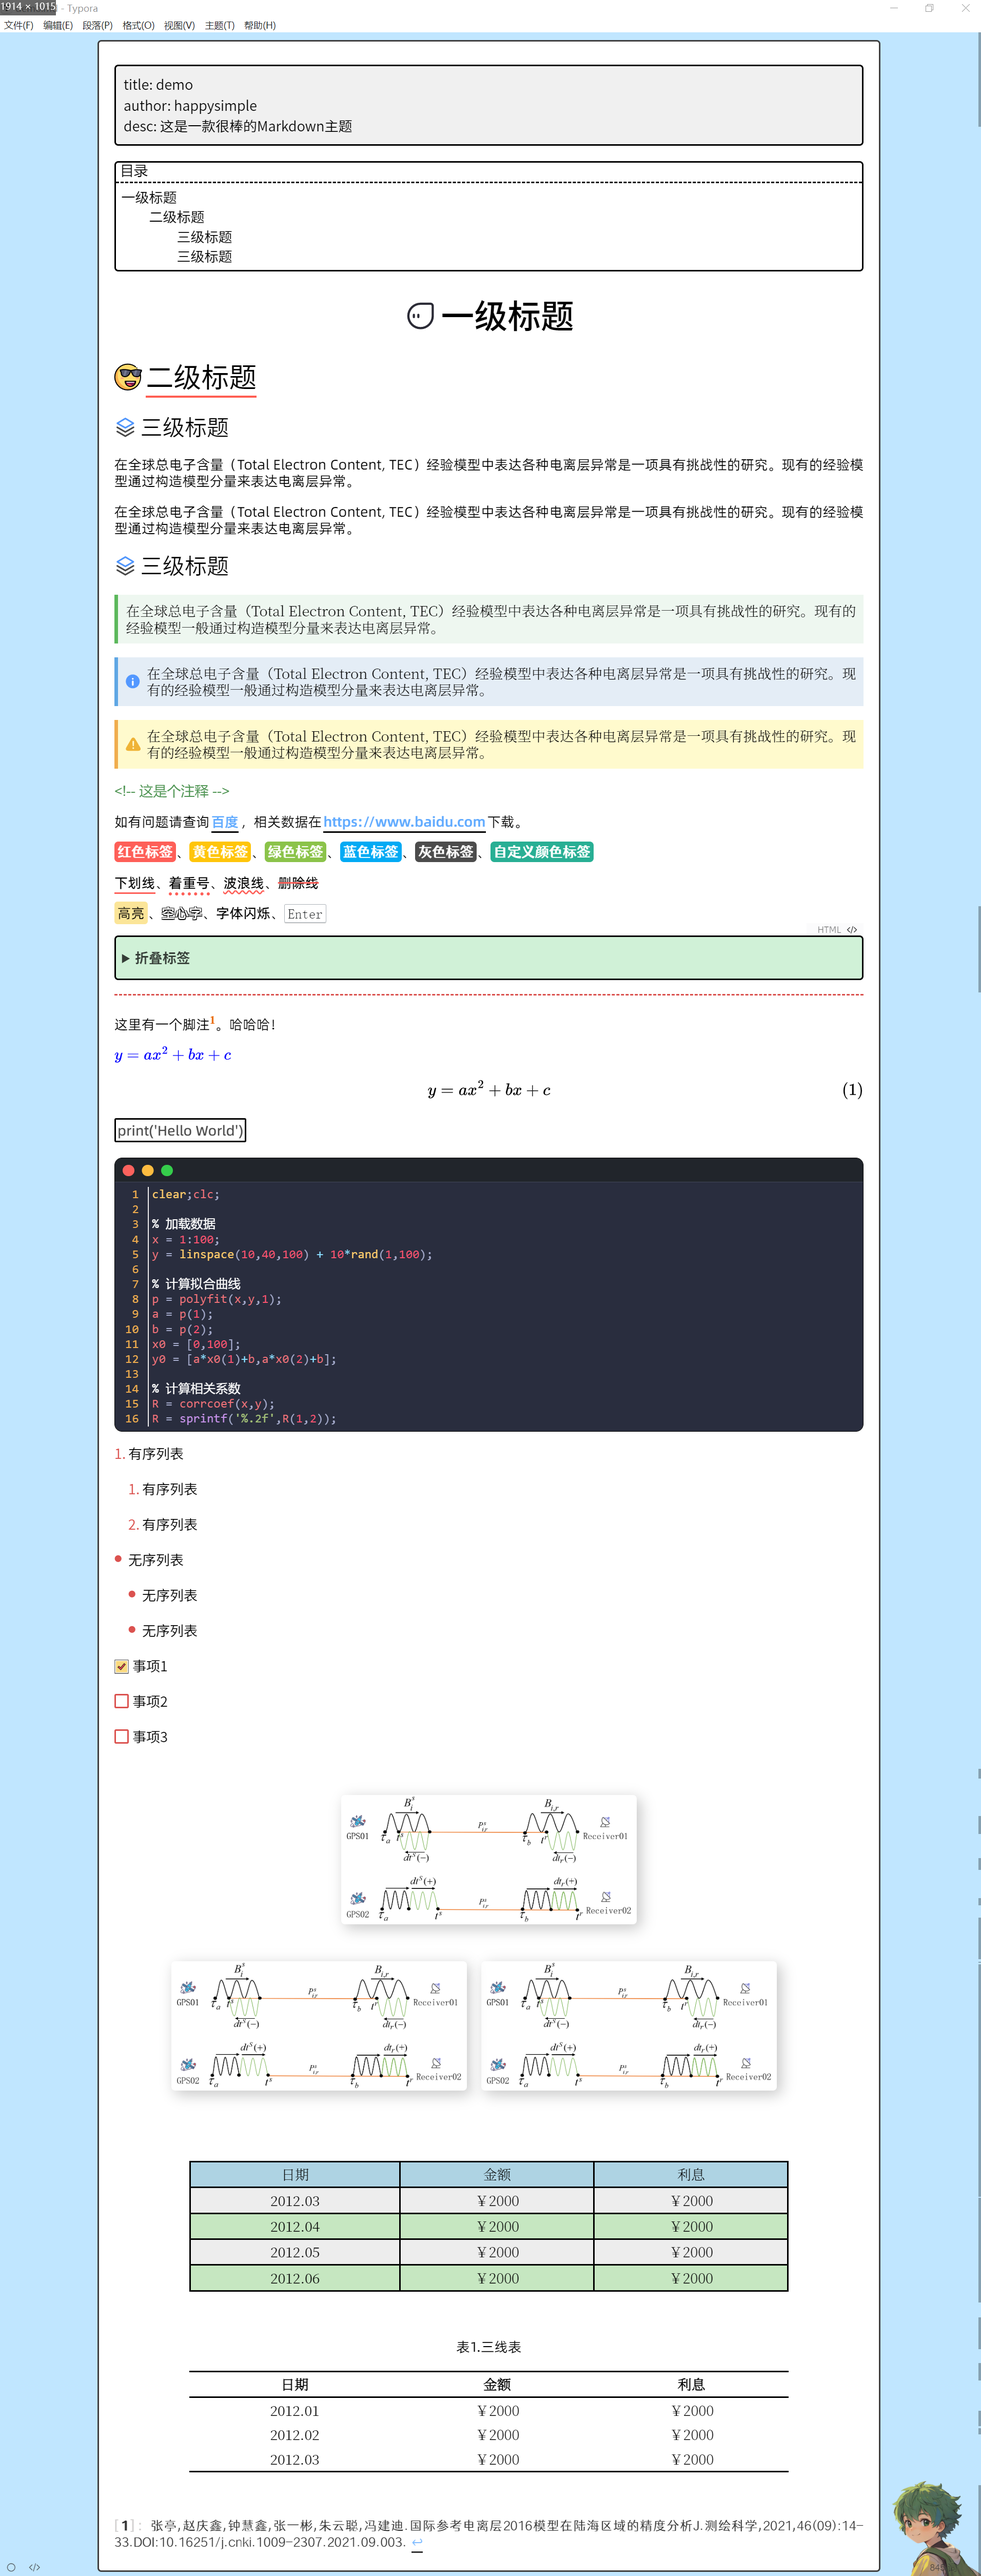
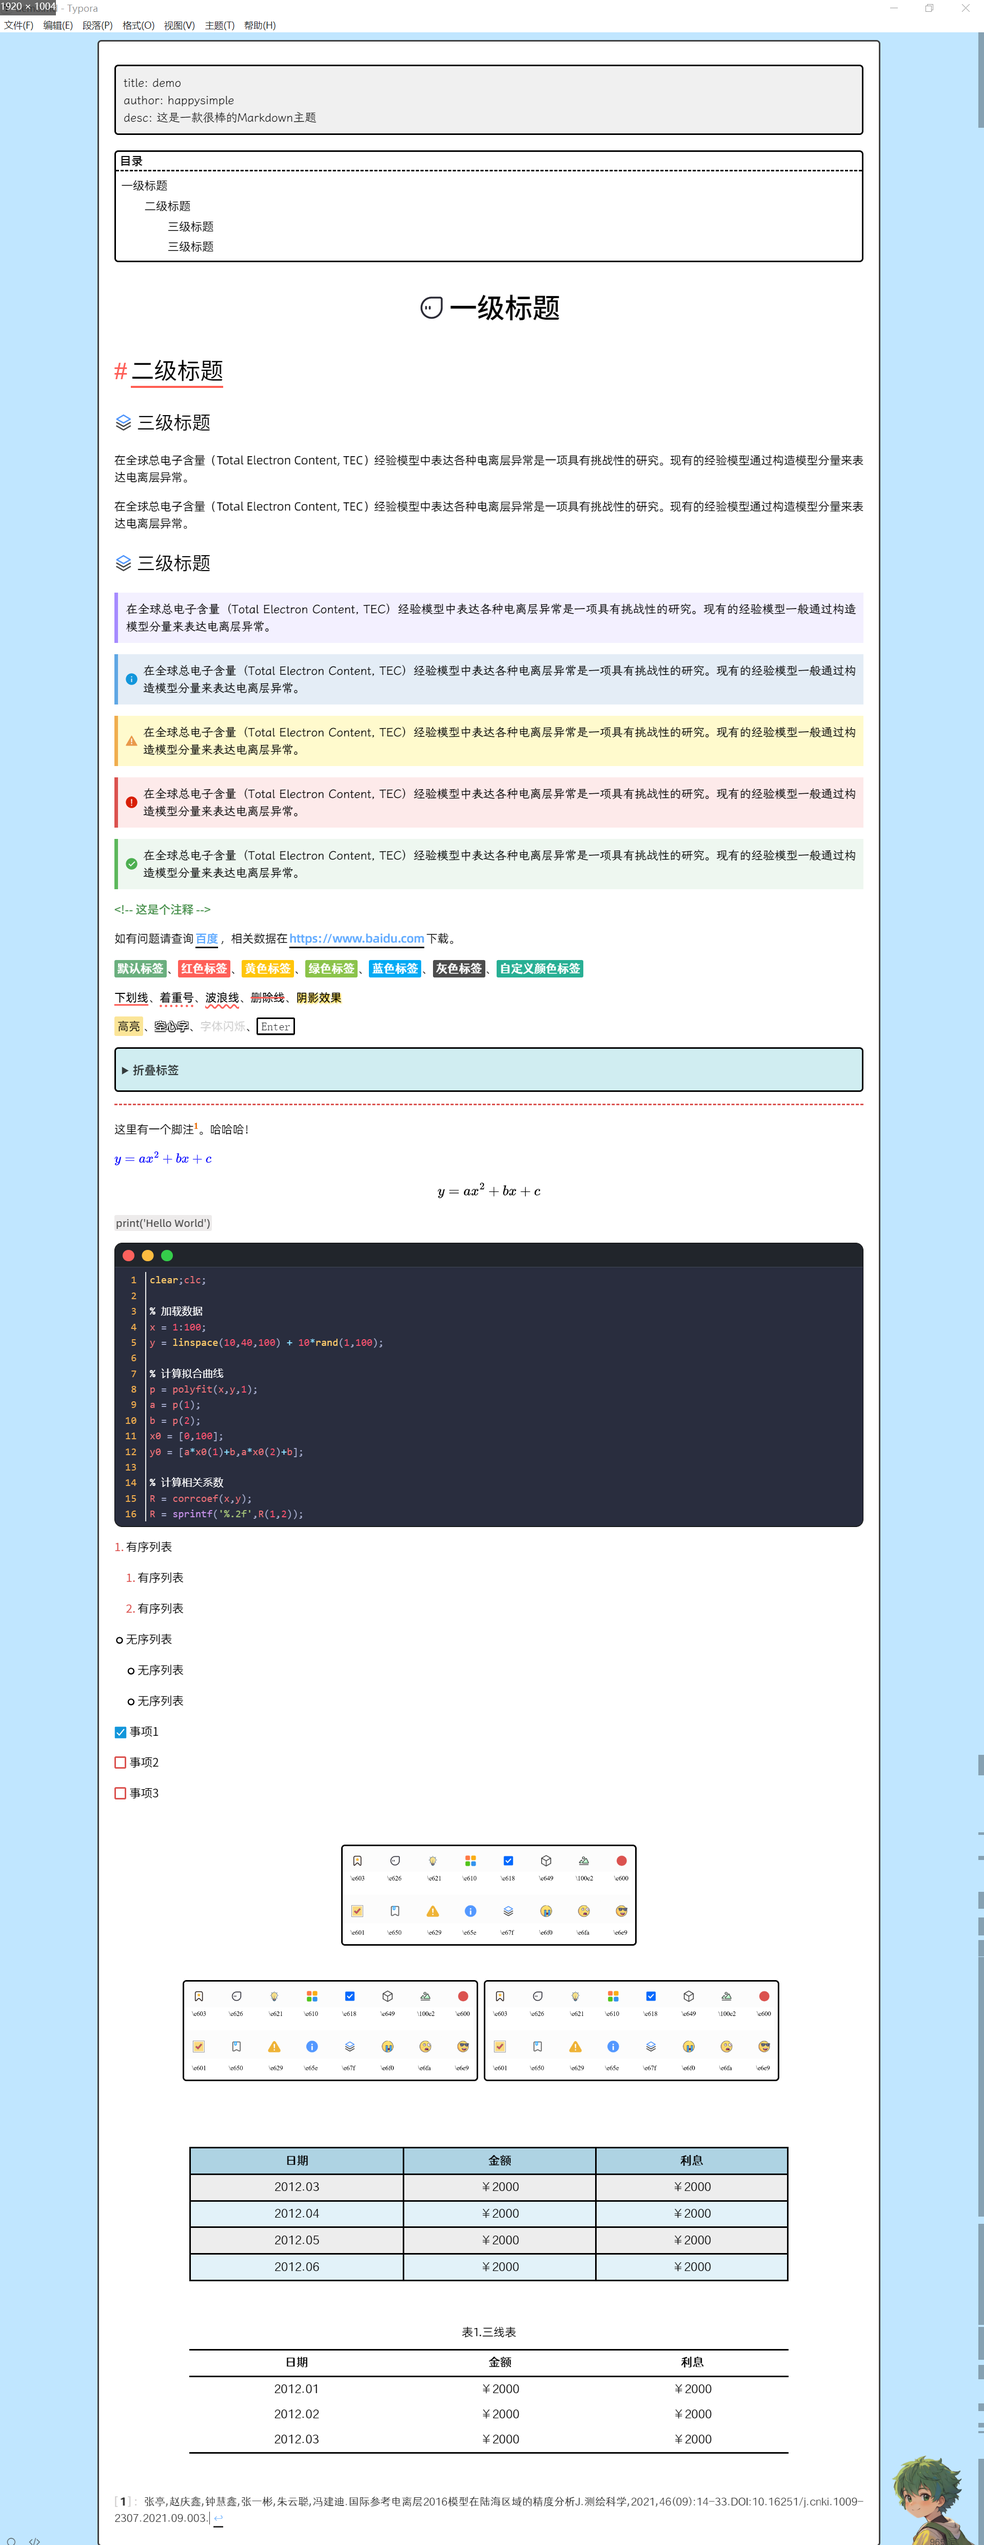
update

diff --git a/_posts/theme/2023-07-10-Happysimple.md b/_posts/theme/2023-07-10-Happysimple.md
@@ -17,17 +17,26 @@ typora-copy-images-to: ../../media/theme/happysimple
 
 > 此主题仅在Windows下设计和测试，在其操作系统上的效果未知！
 
-![](/media/theme/happysimple/Happysimple_01.png)
+![主题预览](/media/theme/happysimple/Happysimple_01.png)
 
 ## 主题特色
 
 - 提供了<font style="color: #fff; background: #ffafa3;">自定义样式</font>的CSS文件：`happysimple.css`，你可以打造自己的主题！
+
 - 内置了<font style="color: #fff; background: #ffafa3;">一些字体</font>：阿里妈妈普惠体、思源黑体、霞鹜文楷、站酷仓耳渔阳体！（各模块可以单独设置字体！）
+
 - 右下角放置了一个<font style="color: #fff; background: #ffafa3;">卡通人物</font>，你可以将其更换为自己喜欢的图片或动图！可以调整它的位置！
+
 - 标题前可<font style="color: #fff; background: #ffafa3;">嵌入图标</font>！
+
+  ![内置图标](/media/theme/happysimple/Happysimple_02.png)
+
 - 代码块采用了<font style="color: #fff; background: #ffafa3;">mac暗色风格</font>！
+
 - 美化了自带的表格，还增加了<font style="color: #fff; background: #ffafa3;">三线表样式</font>的表格！
+
 - 丰富了引用块的样式！
+
 - 增加了`小标签`、`强调型文本`、`字体特效` 、`折叠标签`等！
 
 
